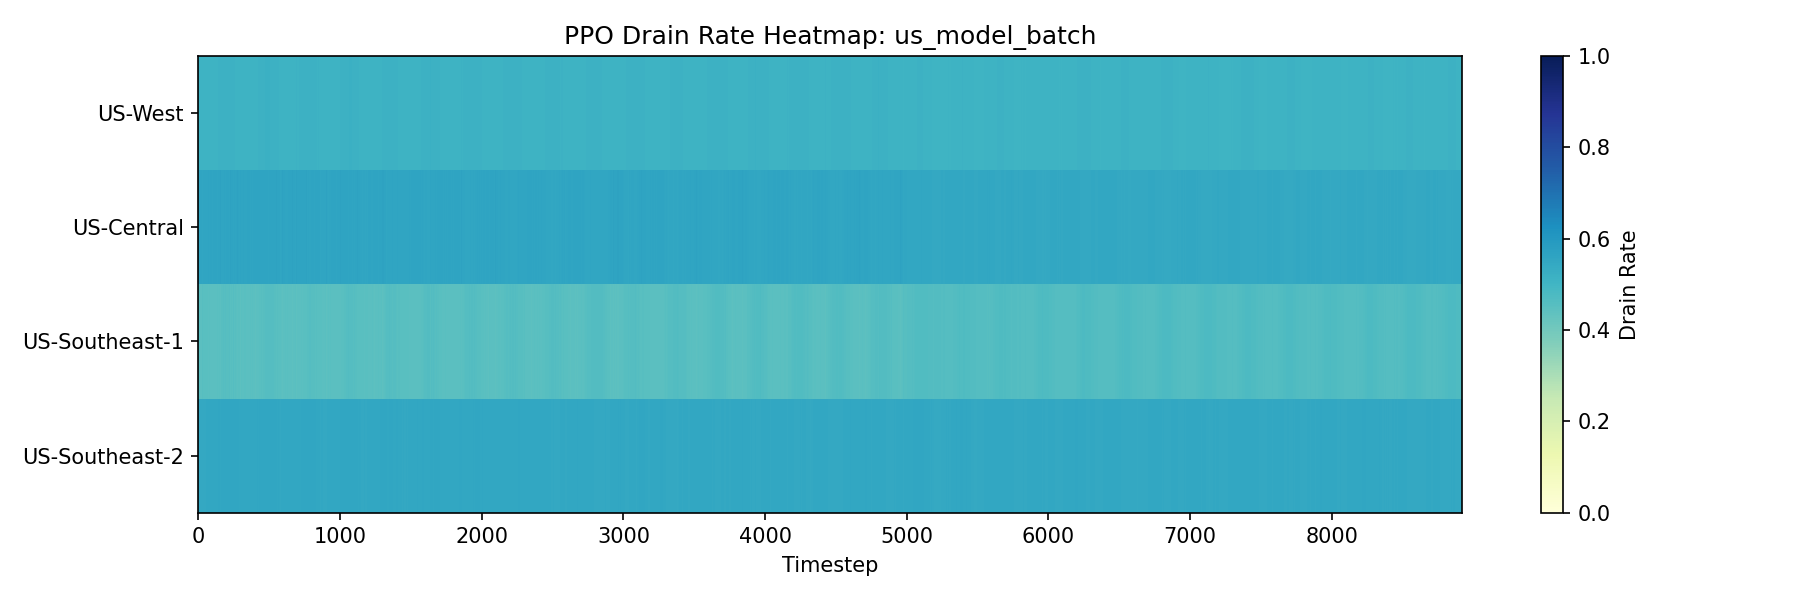
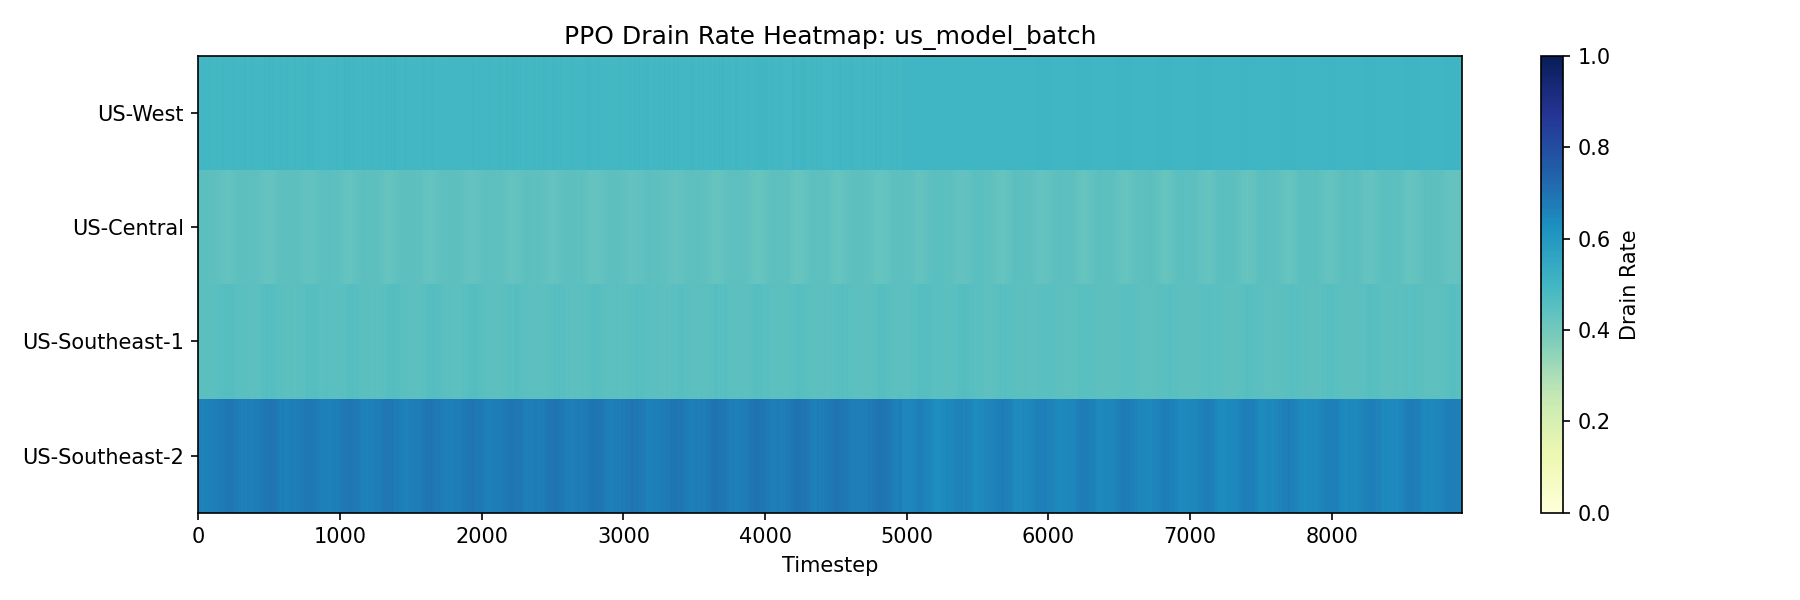
improvement to support memory

Changed region(s): [[0.0933, 0.66, 0.8089, 0.87], [0.0933, 0.27, 0.8089, 0.48]]

diff --git a/evaluate.py b/evaluate.py
@@ -373,7 +373,7 @@ def main(argv: list[str] | None = None) -> None:
     # 3. PPO allocation heatmap
     n_dc = len(dc_names)
     fractions_matrix = np.array(
-        [h["fractions"] for h in ppo_history]
+        [h["fractions"] for h in rl_history]
     )  # (T, n_dc)
     fig, ax = plt.subplots(figsize=(12, 4))
     im = ax.imshow(
@@ -402,7 +402,7 @@ def main(argv: list[str] | None = None) -> None:
     if args.batch_mode:
         # Batch pool size over time
         fig, (ax1, ax2) = plt.subplots(2, 1, figsize=(12, 8), sharex=True)
-        pool_sizes = [h.get("total_batch_pool", 0) for h in ppo_history]
+        pool_sizes = [h.get("total_batch_pool", 0) for h in rl_history]
         ax1.plot(pool_sizes, label="Total Batch Pool", color="tab:blue")
         ax1.set_ylabel("Batch Pool Size (norm CPU)")
         ax1.set_title(f"Batch Pool Evolution: {scenario_name}")
@@ -411,7 +411,7 @@ def main(argv: list[str] | None = None) -> None:
 
         for i in range(n_dc):
             drain_rates = [
-                h["per_dc"][i].get("drain_rate", 0) for h in ppo_history
+                h["per_dc"][i].get("drain_rate", 0) for h in rl_history
             ]
             ax2.plot(drain_rates, label=dc_names[i], alpha=0.7)
         ax2.set_xlabel("Timestep")
@@ -428,7 +428,7 @@ def main(argv: list[str] | None = None) -> None:
 
         # Drain rate heatmap
         drain_matrix = np.array(
-            [h.get("drain_rates", [0] * n_dc) for h in ppo_history]
+            [h.get("drain_rates", [0] * n_dc) for h in rl_history]
         )
         fig, ax = plt.subplots(figsize=(12, 4))
         im = ax.imshow(

diff --git a/output/us_model_batch_report.md b/output/us_model_batch_report.md
@@ -4,27 +4,29 @@
 
 | Policy | Total Cost | Avg Renewable % | Batch Expired | Deadline Cost | Avg Pool Size |
 | --- | --- | --- | --- | --- | --- |
-| PPO | 5967929.70 | 18.5% | 2217.1405 | 4434.28 | 0.6519 |
-| Round Robin | 6403825.00 | 17.9% | 36.7074 | 73.41 | 0.4666 |
-| Cheapest Price First | 17828909.51 | 19.3% | 2316.8850 | 4633.77 | 0.5452 |
-| Follow the Sun | 6827824.68 | 17.9% | 821.9289 | 1643.86 | 0.8637 |
-| Local Only (No Routing) | 6406426.72 | 17.9% | 72.2401 | 144.48 | 0.1782 |
-| Random | 6358780.39 | 18.0% | 420.1795 | 840.36 | 0.5088 |
-| Drain Immediately | 6394399.48 | 17.9% | 123.9446 | 247.89 | 0.0170 |
-| Defer to Sun | 6398368.87 | 17.9% | 101.4938 | 202.99 | 4.9956 |
+| PPO | 3853319.79 | 47.8% | 631.9145 | 1263.83 | 0.5693 |
+| Round Robin | 3904639.42 | 48.0% | 36.7074 | 73.41 | 0.4666 |
+| Cheapest Price First | 15705659.31 | 47.7% | 2316.8850 | 4633.77 | 0.5452 |
+| Follow the Sun | 4221514.05 | 48.9% | 821.9289 | 1643.86 | 0.8637 |
+| Local Only (No Routing) | 3910488.42 | 48.0% | 72.2401 | 144.48 | 0.1782 |
+| Random | 3885289.97 | 48.0% | 420.1795 | 840.36 | 0.5088 |
+| Drain Immediately | 3898683.88 | 48.0% | 123.9446 | 247.89 | 0.0170 |
+| Defer to Sun | 3894280.81 | 48.1% | 101.4938 | 202.99 | 4.9956 |
+| GreenSlot | 3778034.37 | 49.5% | 323.4058 | 646.81 | 1.5606 |
 
 ## Per-DC Energy Cost Breakdown
 
 | Policy | US-West | US-Central | US-Southeast-1 | US-Southeast-2 |
 | --- | --- | --- | --- | --- |
-| PPO | 1518730.98 | 1774055.05 | 1328228.02 | 1323889.70 |
-| Round Robin | 1938985.50 | 1478969.24 | 1548528.04 | 1437268.81 |
-| Cheapest Price First | 1520509.45 | 1782993.15 | 1220797.87 | 1144634.20 |
-| Follow the Sun | 2400714.09 | 1274413.15 | 1368432.36 | 1413632.33 |
-| Local Only (No Routing) | 1957953.95 | 1469301.60 | 1550564.38 | 1428462.32 |
-| Random | 1933729.84 | 1449880.48 | 1547810.01 | 1426430.13 |
-| Drain Immediately | 1938988.64 | 1469337.65 | 1548528.15 | 1437297.15 |
-| Defer to Sun | 1939175.22 | 1472193.26 | 1549007.92 | 1437789.49 |
+| PPO | 1072267.31 | 1033431.40 | 911773.97 | 834583.29 |
+| Round Robin | 1135910.72 | 937671.39 | 955475.07 | 875508.83 |
+| Cheapest Price First | 909270.52 | 1146558.24 | 774336.65 | 715519.06 |
+| Follow the Sun | 1506013.62 | 778532.28 | 776121.44 | 790213.97 |
+| Local Only (No Routing) | 1153289.20 | 932043.36 | 954594.69 | 870416.69 |
+| Random | 1136326.58 | 919157.64 | 956642.20 | 872233.62 |
+| Drain Immediately | 1135915.18 | 931372.77 | 955539.12 | 875608.92 |
+| Defer to Sun | 1135310.50 | 930839.64 | 954158.69 | 873769.00 |
+| GreenSlot | 1100977.26 | 882510.25 | 916608.44 | 867674.66 |
 
 ## Plots
 

diff --git a/output/us_model_report.md b/output/us_model_report.md
@@ -4,27 +4,29 @@
 
 | Policy | Total Cost | Avg Renewable % | Total Grid (MW-steps) |
 | --- | --- | --- | --- |
-| PPO | 6338378.62 | 17.8% | 2111661.37 |
-| Round Robin | 6477228.53 | 17.8% | 2111895.95 |
-| Cheapest Price First | 37107389.94 | 19.5% | 1892210.03 |
-| Follow the Sun | 12358547.57 | 17.1% | 2088048.76 |
-| Local Only (No Routing) | 6485250.35 | 17.8% | 2111895.95 |
-| Random | 6477053.89 | 17.8% | 2111895.95 |
-| Drain Immediately | 6477228.53 | 17.8% | 2111895.95 |
-| Defer to Sun | 6477228.53 | 17.8% | 2111895.95 |
+| PPO | 3931338.68 | 47.5% | 1346687.64 |
+| Round Robin | 3930168.95 | 48.1% | 1331164.58 |
+| Cheapest Price First | 35011042.72 | 47.7% | 1227692.90 |
+| Follow the Sun | 9544312.60 | 48.8% | 1241468.11 |
+| Local Only (No Routing) | 3940875.91 | 48.1% | 1332548.08 |
+| Random | 3943000.40 | 48.0% | 1335133.43 |
+| Drain Immediately | 3930168.95 | 48.1% | 1331164.58 |
+| Defer to Sun | 3930168.95 | 48.1% | 1331164.58 |
+| GreenSlot | 3909396.16 | 50.0% | 1286338.00 |
 
 ## Per-DC Energy Cost Breakdown
 
 | Policy | US-West | US-Central | US-Southeast-1 | US-Southeast-2 |
 | --- | --- | --- | --- | --- |
-| PPO | 1737504.56 | 1777379.01 | 1384126.97 | 1394918.17 |
-| Round Robin | 2084185.94 | 1341595.14 | 1604941.26 | 1446506.19 |
-| Cheapest Price First | 1552912.67 | 1782993.15 | 1188854.22 | 1074986.34 |
-| Follow the Sun | 2639703.49 | 1104410.03 | 1391127.12 | 1469291.11 |
-| Local Only (No Routing) | 2107823.49 | 1334705.36 | 1607402.17 | 1435319.33 |
-| Random | 2079245.72 | 1342478.92 | 1606148.81 | 1448158.22 |
-| Drain Immediately | 2084185.94 | 1341595.14 | 1604941.26 | 1446506.19 |
-| Defer to Sun | 2084185.94 | 1341595.14 | 1604941.26 | 1446506.19 |
+| PPO | 1249627.93 | 1100914.93 | 753844.76 | 825146.01 |
+| Round Robin | 1216497.28 | 850457.36 | 985140.11 | 878074.20 |
+| Cheapest Price First | 926294.79 | 1146558.24 | 754784.74 | 675761.38 |
+| Follow the Sun | 1536059.38 | 665319.99 | 771782.45 | 817134.95 |
+| Local Only (No Routing) | 1238523.26 | 846728.85 | 984062.34 | 871561.47 |
+| Random | 1217687.46 | 853788.38 | 989021.81 | 881480.53 |
+| Drain Immediately | 1216497.28 | 850457.36 | 985140.11 | 878074.20 |
+| Defer to Sun | 1216497.28 | 850457.36 | 985140.11 | 878074.20 |
+| GreenSlot | 1216499.83 | 800127.03 | 937768.97 | 858094.43 |
 
 ## Plots
 
